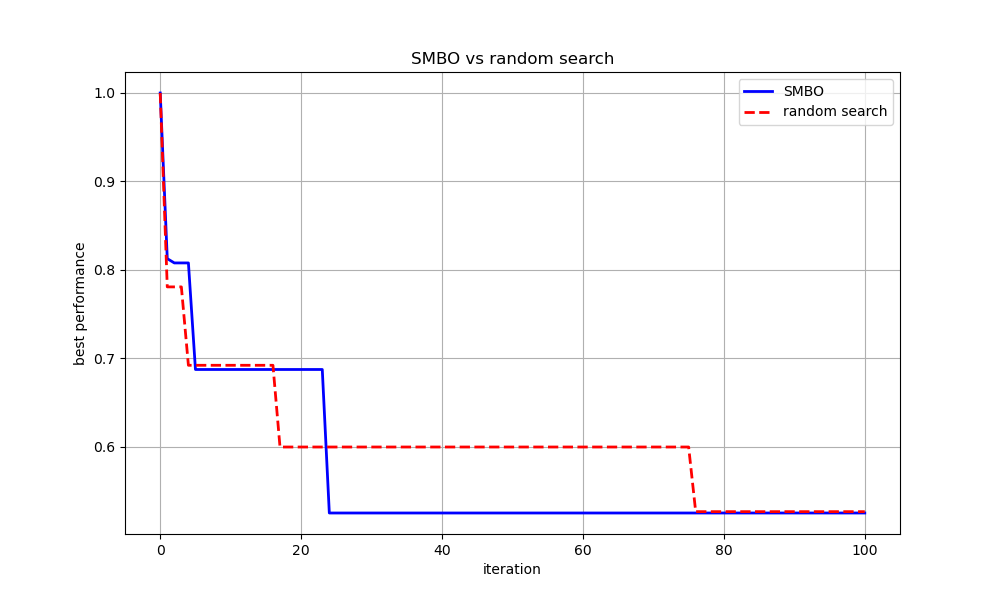
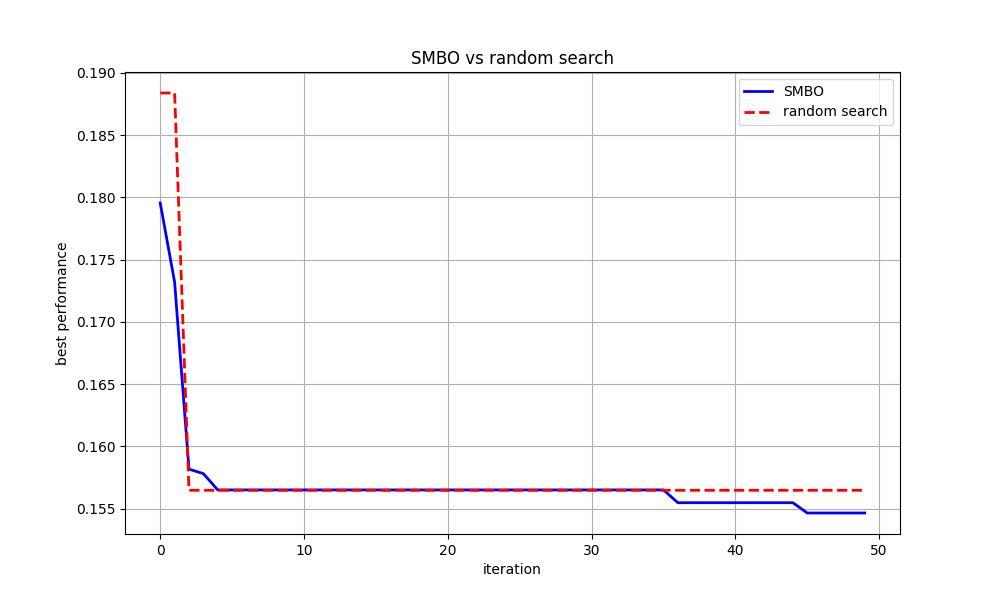
changed encoder logic, adjusted all other files

diff --git a/A1/run_experiment.py b/A1/run_experiment.py
@@ -5,6 +5,7 @@ import pandas as pd
 from random_search import RandomSearch
 from surrogate_model import SurrogateModel
 from smbo import SequentialModelBasedOptimization
+from config_encoder import ConfigEncoder
 
 import numpy as np
 
@@ -14,21 +15,20 @@ def parse_args():
     parser.add_argument('--configurations_performance_file', type=str, default='total_performances_dataset.csv')
     # max_anchor_size: connected to the configurations_performance_file. The max value upon which anchors are sampled
     parser.add_argument('--max_anchor_size', type=int, default=1600)
-    parser.add_argument('--num_iterations', type=int, default=100)
+    parser.add_argument('--num_iterations', type=int, default=50)
 
     return parser.parse_args()
 
 
 def plot_optimization_comparison(results_smbo, results_random):
-
     plt.figure(figsize=(10, 6))
     
-    #best_smbo = np.minimum.accumulate(results_smbo)
-    #best_random = np.minimum.accumulate(results_random)
+    best_smbo = np.minimum.accumulate(results_smbo)
+    best_random = np.minimum.accumulate(results_random)
     
-    iterations = range(len(results_smbo))
-    plt.plot(iterations, results_smbo, 'b-', label='SMBO', linewidth=2)
-    plt.plot(iterations, results_random, 'r--', label='random search', linewidth=2)
+    iterations = range(len(best_smbo))
+    plt.plot(iterations, best_smbo, 'b-', label='SMBO', linewidth=2)
+    plt.plot(iterations, best_random, 'r--', label='random search', linewidth=2)
     
     plt.xlabel('iteration')
     plt.ylabel('best performance')
@@ -42,38 +42,60 @@ def plot_optimization_comparison(results_smbo, results_random):
 def run(args):
     config_space = ConfigSpace.ConfigurationSpace.from_json(args.config_space_file)
     random_search = RandomSearch(config_space)
-    smbo = SequentialModelBasedOptimization(config_space)
+    smbo = SequentialModelBasedOptimization(config_space, max_anchor_size=args.max_anchor_size)
     df = pd.read_csv(args.configurations_performance_file)
     surrogate_model = SurrogateModel(config_space)
     surrogate_model.fit(df)
-    results = {
-        'random_search': [1.0],
-        'smbo':[1.0]
-    }
-    results_smbo = [1.0]
-    results_random = [1.0]
-    thetas = config_space.sample_configuration(100)
-
-    performances = surrogate_model.predict(thetas)
-        
     
-    capital_phi = zip(thetas, performances)
+    results_smbo = []
+    results_random = []
+    
+    thetas = config_space.sample_configuration(100)
+    thetas_df = pd.DataFrame([dict(theta) for theta in thetas])
+    thetas_df["anchor_size"] = args.max_anchor_size
+    
+    performances = surrogate_model.predict(thetas_df)
+    capital_phi = list(zip(thetas_df.to_dict('records'), performances))
+    # print("performances on thetas: \n", performances)
     smbo.initialize(capital_phi)
 
     for idx in range(args.num_iterations):
         # smbo
         theta_smbo = smbo.select_configuration(idx)
-        perf_smbo = surrogate_model.predict(theta_smbo)[0]
-        smbo.update_runs((theta_smbo, perf_smbo))
-        results_smbo.append(smbo.theta_inc_performance)
+        theta_df = pd.DataFrame([dict(theta_smbo)])
+        theta_df["anchor_size"] = args.max_anchor_size
+        perf_smbo = surrogate_model.predict(theta_df)
+            
+        # maybe plot perf_smbo against smbo.theta_inc_performance
+        smbo.update_runs((theta_df.to_dict('records')[0], perf_smbo))
+        results_smbo.append(perf_smbo)
         
         # random Search
         theta_random = random_search.select_configuration()
-        perf_random = surrogate_model.predict(theta_random)[0]
-        if perf_random<np.min(results_random):
-            results_random.append(perf_random)
-        else:
-            results_random.append(results_random[-1])
+        theta_random_df = pd.DataFrame([dict(theta_random)])
+        theta_random_df["anchor_size"] = args.max_anchor_size
+        perf_random = surrogate_model.predict(theta_random_df)
+        results_random.append(perf_random)
+        # if perf_random < np.min(results_random):
+        #     results_random.append(perf_random)
+        # else:
+        #     results_random.append(results_random[-1])
+            
+    plt.figure(figsize=(8, 6))
+    plt.plot(range(1, args.num_iterations + 1), results_smbo, marker='o')
+    plt.xlabel('Iteration')
+    plt.ylabel('Performance ')
+    plt.title('Performance Over Iterations SMBO')
+    plt.grid(True)
+    plt.show()
+    
+    plt.figure(figsize=(8, 6))
+    plt.plot(range(1, args.num_iterations + 1), results_random, marker='o')
+    plt.xlabel('Iteration')
+    plt.ylabel('Performance ')
+    plt.title('Performance Over Iterations RS')
+    plt.grid(True)
+    plt.show()
     
     plot_optimization_comparison(results_smbo, results_random)
 

diff --git a/A1/surrogate_model.py b/A1/surrogate_model.py
@@ -18,20 +18,21 @@ class SurrogateModel:
     def __init__(self, config_space):
         self.config_space = config_space
         self.df = None
-        encoder = ConfigEncoder(self.config_space)
-        self.model = Pipeline([('encoder',encoder),
-                               ('imputer', SimpleImputer(missing_values=np.nan, strategy='mean')), 
+        self.encoder = ConfigEncoder(self.config_space)
+        self.model = Pipeline([
+            # ('encoder',self.encoder),
+                            #    ('imputer', SimpleImputer(missing_values=np.nan, strategy='mean')), 
                                ('model', RandomForestRegressor())])  
         # data = pd.read_csv('lcdb_configs.csv')
         # self.best = {}
         # self.hp_search(data)
         
-        self.best = {'model__bootstrap': False, 
-                     'model__criterion': 'squared_error', 
-                     'model__max_depth': 20, 
-                     'model__max_features': 0.6984621976195288, 
-                     'model__min_samples_leaf': 2, 
-                     'model__min_samples_split': 2}
+        # self.best = {'model__bootstrap': False, 
+        #              'model__criterion': 'squared_error', 
+        #              'model__max_depth': 20, 
+        #              'model__max_features': 0.6984621976195288, 
+        #              'model__min_samples_leaf': 2, 
+        #              'model__min_samples_split': 2}
     
     def hp_search(self,df):
         """
@@ -87,11 +88,14 @@ class SurrogateModel:
         :param df: the dataframe with performances
         :return: Does not return anything, but stores the trained model in self.model
         """
-        self.df = df
+        y = df['score']
         self.features = df.columns[:-1]
         self.label = df.columns[-1]
-        #self.model = self.model.set_params(**self.best)
-        self.model.fit(df[self.features],df[self.label])
+        df_encoded = self.encoder.transform(df)
+
+        self.df = df_encoded
+
+        self.model.fit(df_encoded[self.features],y)
 
     def predict(self, theta_new):
         """
@@ -103,21 +107,25 @@ class SurrogateModel:
         if isinstance(theta_new, list): # len(theta_new)>1:
             X = pd.DataFrame(theta_new,index=[x for x in range(len(theta_new))])
         elif isinstance(theta_new, ConfigSpace.Configuration):
-            X = pd.DataFrame([theta_new.get_dictionary()])
+            X = pd.DataFrame([dict(theta_new)])
         else:
             X = pd.DataFrame(theta_new)
         for col in self.features:
             if col not in X.columns:
                 X[col] = None
-                
-        return self.model.predict(X[self.features])
+        
+        # print(X)
+        T = self.encoder.transform(X)
+        # print("T: " , T)
+        
+        return self.model.predict(T[self.features])
 
 
-if __name__ == '__main__':
-    files = ['lcdb_configs.csv','config_performances_dataset-6.csv','config_performances_dataset-11.csv','config_performances_dataset-1457.csv']
-    data = pd.DataFrame()
-    for file in files:
-        data = pd.concat([data,pd.read_csv(file)])
-    config_space = ConfigSpace.ConfigurationSpace.from_json('./lcdb_config_space_knn.json')
-    sm = SurrogateModel(config_space)
-    sm.hp_search(data)
+# if __name__ == '__main__':
+#     files = ['lcdb_configs.csv','config_performances_dataset-6.csv','config_performances_dataset-11.csv','config_performances_dataset-1457.csv']
+#     data = pd.DataFrame()
+#     for file in files:
+#         data = pd.concat([data,pd.read_csv(file)])
+#     config_space = ConfigSpace.ConfigurationSpace.from_json('./lcdb_config_space_knn.json')
+#     sm = SurrogateModel(config_space)
+#     sm.hp_search(data)

diff --git a/A1/smbo.py b/A1/smbo.py
@@ -4,6 +4,8 @@ import typing
 
 from sklearn.pipeline import Pipeline
 from sklearn.gaussian_process import GaussianProcessRegressor
+from sklearn.gaussian_process.kernels import Matern
+
 from sklearn.impute import SimpleImputer
 from sklearn.preprocessing import OneHotEncoder
 from scipy.stats import norm
@@ -13,7 +15,7 @@ from config_encoder import ConfigEncoder
 
 class SequentialModelBasedOptimization(object):
 
-    def __init__(self, config_space, exploration = .2):
+    def __init__(self, config_space,max_anchor_size=1600, exploration = .3):
         """
         Initializes empty variables for the model, the list of runs (capital R), and the incumbent
         (theta_inc being the best found hyperparameters, theta_inc_performance being the performance
@@ -22,8 +24,16 @@ class SequentialModelBasedOptimization(object):
         self.config_space = config_space
         self.R = []
         self.theta_inc = {}
-        self.theta_inc_performance = 1
+        self.theta_inc_performance = float('inf')
         self.exploration = exploration
+        self.max_anchor_size = max_anchor_size
+        self.encoder = ConfigEncoder(self.config_space)
+        
+        self.model = Pipeline([
+            ('model', GaussianProcessRegressor(kernel=Matern(), random_state=42
+
+            ))
+        ])
         
     def initialize(self, capital_phi: typing.List[typing.Tuple[typing.Dict, float]]) -> None:
         """
@@ -35,10 +45,10 @@ class SequentialModelBasedOptimization(object):
         """
         # print(capital_phi)
         self.R.extend(capital_phi)
-        encoder = ConfigEncoder(self.config_space)
-        self.model = Pipeline([('encoder', encoder),
-                               ('imputer', SimpleImputer(missing_values=np.nan, strategy='mean')), 
-                               ('model', GaussianProcessRegressor())]) 
+        
+        if len(capital_phi) > 0:
+            self.theta_inc = capital_phi[0][0].copy()
+            self.theta_inc_performance = capital_phi[0][1]
         
         
         for configuration, performance in capital_phi:
@@ -52,8 +62,9 @@ class SequentialModelBasedOptimization(object):
         """
         configs, results = zip(*self.R)
         X = pd.DataFrame(configs)
-        y = np.array(results)
-        self.model.fit(X,y)
+        X = self.encoder.transform(X) 
+        y = np.array(results, dtype=object)
+        self.model.fit(X, y)
         
     def select_configuration(self, idx) -> ConfigSpace.Configuration:
         """
@@ -64,15 +75,19 @@ class SequentialModelBasedOptimization(object):
         :return: A size n vector, same size as each element representing the EI of a given
         configuration
         """
-
+        # exploration decay
+        self.exploration = self.exploration * 0.95 ** idx
+        
         if np.random.rand() < self.exploration:
             return self.config_space.sample_configuration(1)
         
         self.fit_model()
-        sample_configs = self.config_space.sample_configuration(1000)
+        sample_configs = self.config_space.sample_configuration(10000)
         df = pd.DataFrame(sample_configs)
+        df['anchor_size'] = self.max_anchor_size
+        df_encoded = self.encoder.transform(df) 
         
-        EI = self.expected_improvement(self.model, self.theta_inc_performance, df)
+        EI = self.expected_improvement(self.model, self.theta_inc_performance, df_encoded)
         best = np.argmax(EI)
         return sample_configs[best]
 

diff --git a/A1/config_encoder.py b/A1/config_encoder.py
@@ -1,5 +1,6 @@
 import ConfigSpace
 from sklearn.base import BaseEstimator, TransformerMixin
+import pandas as pd
 
 
 '''
@@ -14,9 +15,9 @@ transform should map categories to numbers
 class ConfigEncoder(BaseEstimator, TransformerMixin):
     def __init__(self, config_space):
         self.config_space = config_space
-        self.categories = self._extract_mappings()
+        self.categories = self._mappings()
         
-    def _extract_mappings(self):
+    def _mappings(self):
         mappings = {}
         
         for param in self.config_space.get_hyperparameters():
@@ -28,10 +29,27 @@ class ConfigEncoder(BaseEstimator, TransformerMixin):
     def fit(self, X, y=None):
         return self            
 
+    # imputer sets unspecified parameters to median, but want this to be default param from configspace
     def transform(self, df):
-        copy_df = df.copy()
-        for column in copy_df.columns:
+        df = df.copy()
+        
+        for param in self.config_space.get_hyperparameters():
+            # either the column doesnt exist -> add and fill with default
+            if param.name not in df.columns:
+                df[param.name] = param.default_value
+            # or it does, but there are missing values -> fill with defaults
+            else:
+                df[param.name] = df[param.name].fillna(param.default_value)
+        
+        for column in df.columns:
             if column in self.categories:
-                copy_df[column] = copy_df[column].map(self.categories[column])
-        return copy_df
+                df[column] = df[column].map(self.categories[column])        
+
+        # fix error with order of params
+        original_ordering = [param.name for param in self.config_space.get_hyperparameters()]
+        # anchor size not a parameter in json, so append
+        original_ordering.append("anchor_size")
+        df = df[original_ordering]
+        
+        return df
 

diff --git a/A1/halving.py b/A1/halving.py
@@ -54,6 +54,9 @@ class SuccessiveHalving():
             self.surrogate_model.fit(self.df.loc[self.df['anchor_size']==anchor])
             errors = {}
             for i,config in enumerate(self.configs):
+                # convert config to df with anchor size, for new logic of encoder
+                config = pd.DataFrame([dict(config)])
+                config["anchor_size"] = anchor
                 if i not in self.in_race:
                     continue
                 error = self.surrogate_model.predict(config)[0]
